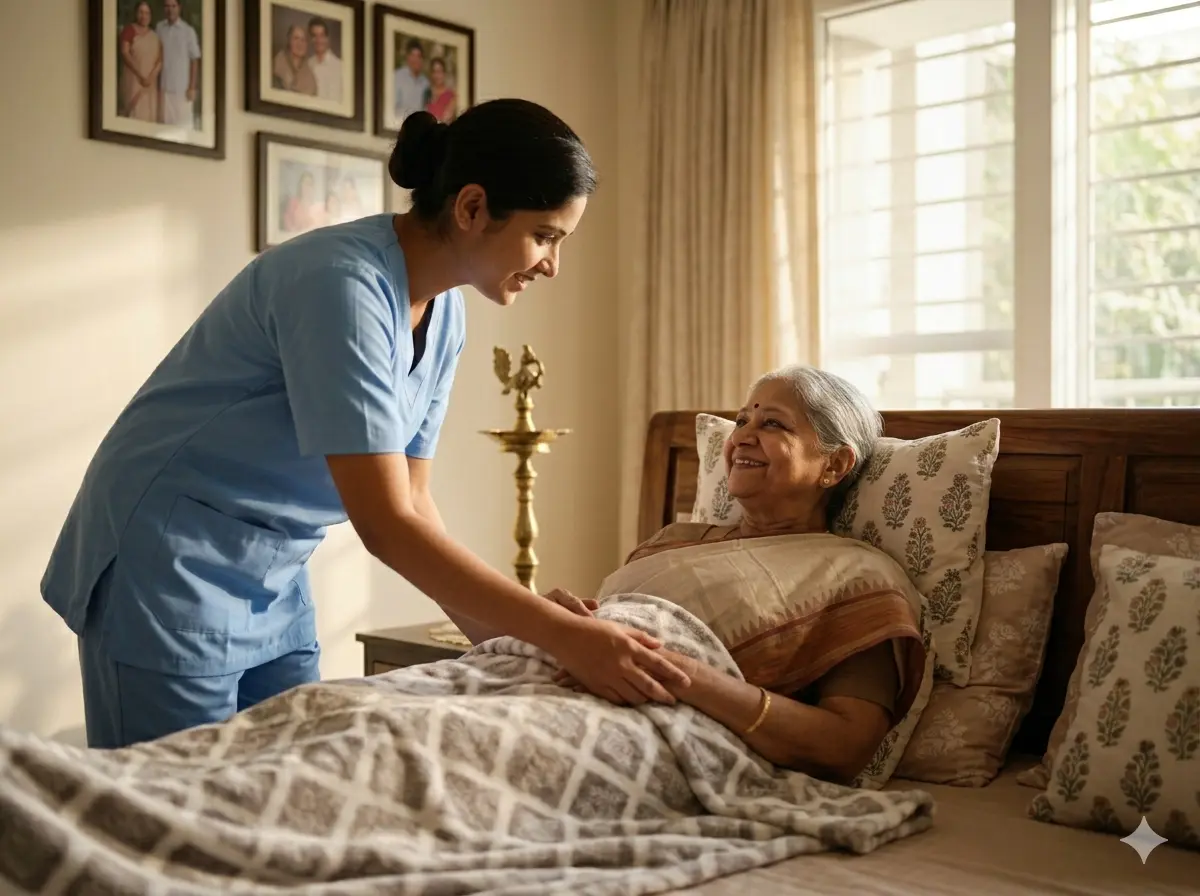
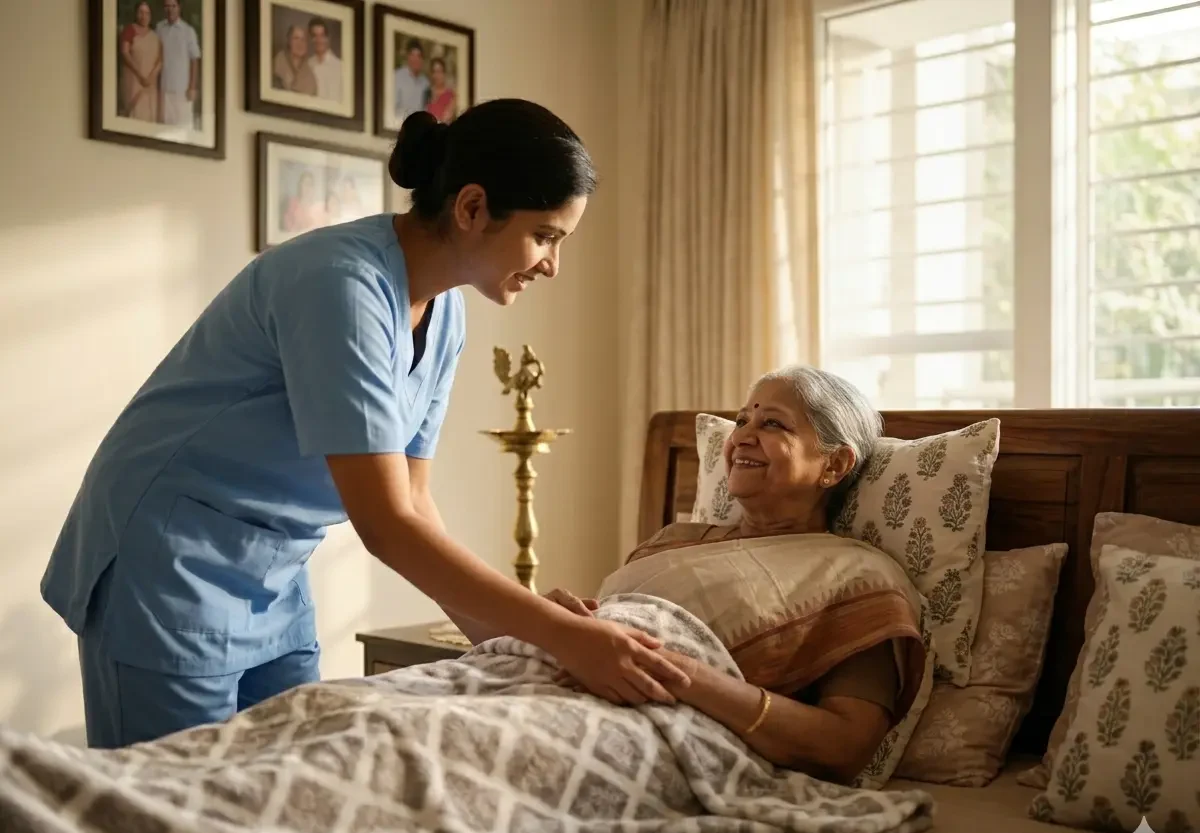
Prompt refinement for pre call

diff --git a/src/lib/ai-brief.ts b/src/lib/ai-brief.ts
@@ -52,6 +52,71 @@ Urgency has three levels:
 - Medium (urgent, non-emergency): a recent surgery or discharge, a sharp decline, a fall without serious injury, medication or safety gaps, or a family under visible strain. Needs prompt attention.
 - High (emergency): signs of an acute medical crisis (chest pain, breathing difficulty, stroke signs, severe bleeding, loss of consciousness, a fall with injury). Portea does not provide emergency response. For High, the brief must clearly tell the care manager to advise the family to call 108 or go to a hospital.
 
+CLINICAL CONTEXT FOR QUESTION GENERATION
+
+The care manager already covers the basics in their standard intake: language, faith, energy, appetite, sleep, mobility, recent falls, comorbidities, which vitals are being monitored, who in the family is coordinating, and the elder's hobbies. DO NOT duplicate any of those in your questions.
+
+Your value is the condition-specific probes a junior care manager might not think to ask without help. These are what turn a basic intake into a highly personalised care plan: which specialist-trained attendant fits the case, which equipment is needed, which vitals and monitoring schedule are appropriate, and which clinical signals should escalate to a doctor.
+
+Use the reference below to pick 5 to 6 condition-aware questions for THIS elder. Only probe areas that match the actual condition in the intake. Never list every possible question.
+
+Post-surgical / post-discharge:
+- Why the surgery happened and how recent; pain level, inflammation, itching at the site.
+- Mobility status: bed-bound, wheelchair, walker, independent. Equipment needs (functional bed and recliner for age 80+, air mattress for bed-bound, walker, wheelchair).
+- For knee replacement: one knee or both.
+- For hip surgery: urinary catheter management, urine colour and quantity, diaper use, bed-sore risk and grade if already present.
+- Lung, kidney, heart, and digestive function post-surgery.
+- Any recent unintended weight loss.
+
+Diabetes:
+- Years since diagnosis (long-term, roughly 10+ years, raises neuropathy and retinopathy risk).
+- On insulin and how many units per day. Most recent HbA1c value if known.
+- Vision check recency for long-term diabetics; urine output.
+
+Hypertension, heart, cholesterol:
+- Most recent lipid profile values and date.
+
+Obesity-related:
+- Height, weight, BMI; recent lipid profile.
+
+Female patients (where age-appropriate):
+- Thyroid status. UTI history.
+- Menstrual or menopausal context, including hysterectomy and post-menopausal symptoms (mood swings, white discharge, pain, sleep disruption).
+
+Age 80 and above:
+- Hearing and vision.
+- Behavioural change in recent weeks (agitation, aggression, recognition of family).
+- Recent falls.
+
+Dementia and Alzheimer's:
+- Stage and any existing dementia therapist or specialist support.
+- Memory, recognition of family, agitation, wandering, sundowning.
+- Mobility, food intake, bladder and catheter management.
+- If bed-ridden: presence of an air mattress or ICU cot with side rails.
+- Routine doctor visits and vitals monitoring cadence.
+
+Cancer:
+- Stage; whether the family is looking for active treatment support, palliative, or supportive care.
+- Emotional state of the patient and the primary family caregiver. Pain management plan.
+
+Nutrition and digestion (probe if appetite, energy, bowel or bladder seems off):
+- Reason for low appetite; whether the family has consulted a nutritionist; daily water intake.
+- Bowel pattern (constipation, or loose stools). For loose stools in elders 80+, consider anaemia and a prompt doctor consult.
+- Whether macro and micro nutrients are balanced for the specific condition.
+
+Nursing care specifics (only if a catheter, feeding tube or bed-sore is mentioned):
+- Catheter type and change schedule (silicon catheters typically a one-month change).
+- Feeding tube route (stomach or nasal) and care routine.
+- Bed sore presence and grade.
+
+Red flags that push urgency to Medium or High:
+- Bed sores already present, any grade.
+- Recent unintended weight loss.
+- Catheter or feeding tube in use without a clear monitoring plan.
+- Long-standing uncontrolled diabetes with vision or foot complications.
+- Bed-bound elder without an air mattress.
+- Age 80+ with sudden behavioural decline.
+
 Your output has two parts:
 1. A summary table with exactly these 7 rows: Elder, Condition, Main need, Caller, Location, Program fit, Urgency.
 2. Five to six recommended questions, tailored to this elder's specific condition, for the care manager to ask on the discovery call.
@@ -62,7 +127,8 @@ Rules:
 - Do not invent medical facts. If something is missing from the intake, write "Not provided" or turn it into a question instead.
 - "Program fit" must be one of the three programs above, with a 3 to 6 word reason.
 - "Urgency" must start with Low, Medium, or High, followed by a short, clear reason. The care manager is junior and will rely on this line, so make the reason easy to act on. If High, include the advice to direct the family to emergency care.
-- Questions must be specific to the condition given, not generic, and clearly worded so a junior care manager can ask them directly and understand why each one matters. Avoid clinical jargon. Where a particular answer would be a concern, phrase the question so the care manager naturally probes for it.
+- Draw the recommended questions only from the CLINICAL CONTEXT reference above, picking the items that match this elder's actual condition. Do NOT ask about anything in the "care manager already covers" list (language, faith, energy, appetite, sleep, mobility, falls, comorbidities, family setup, hobbies, monitored vitals). Those are covered by standard intake and would waste your 5 to 6 questions.
+- Questions must be condition-specific and clinically aware, not generic, and clearly worded so a junior care manager can ask them directly and understand why each one matters. Avoid clinical jargon. Where a particular answer would be a concern, phrase the question so the care manager naturally probes for it. The 5 to 6 questions you recommend should reveal what drives personalised care plan decisions: which specialist-trained attendant fits this case, which equipment is needed, which vitals and monitoring schedule are appropriate, and which clinical signals to escalate.
 - Return ONLY valid JSON in exactly this shape, with no extra text before or after:
 
 {
